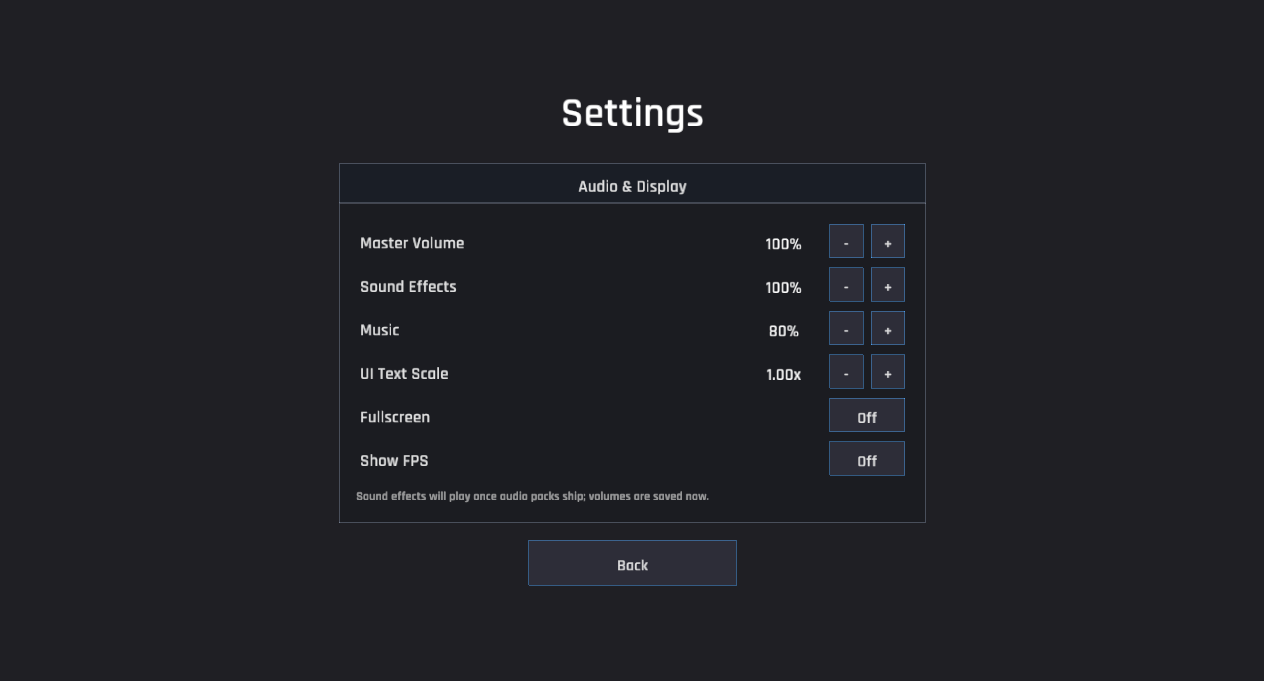
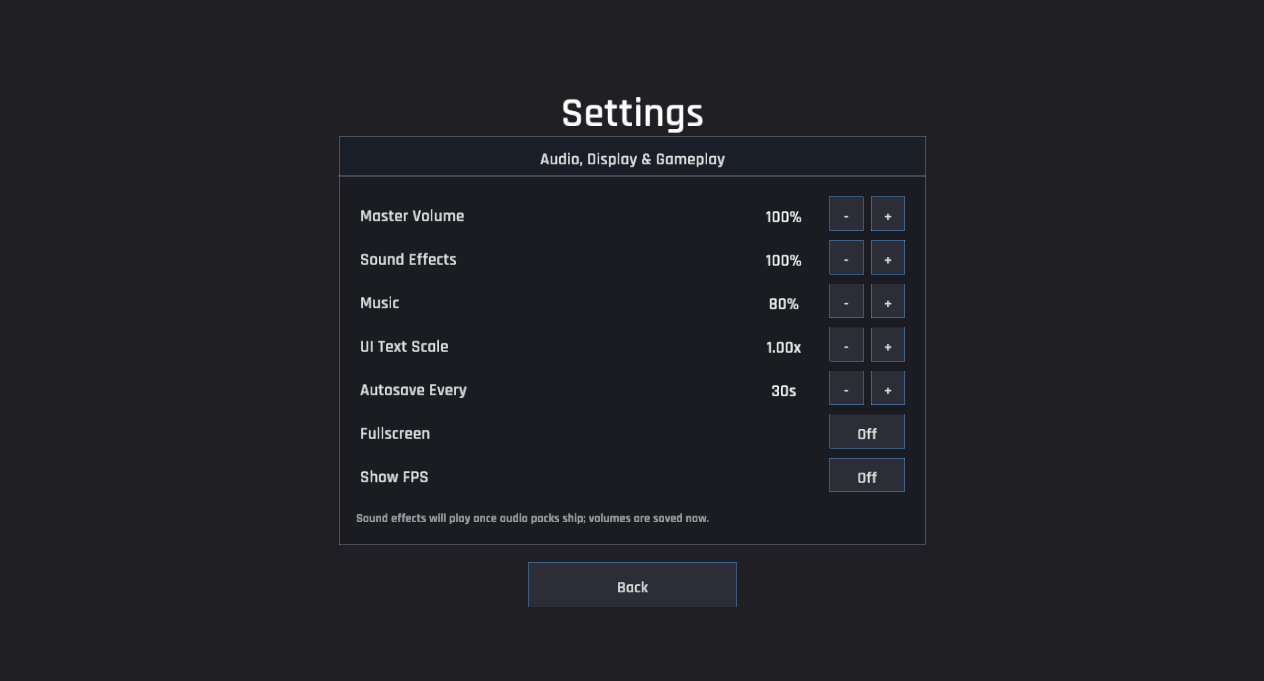
Autosave interval as a user setting (toolkit-first)
Read the autosave cadence from the shared GameSettings::autosave_interval
(added in the toolkit) instead of a game config field. Remove
config.autosave_interval from GameConfig + game_config.json;
GameplayState::autosave_due now takes the interval as a param, fed from
self.settings in the game loop. The Settings screen gains an
"Autosave Every Ns" stepper (+/-5s), applied/sanitized/persisted through
the existing ChangeSetting path. Verified in ui_settings.

Depends on macroquad-toolkit 8f80880 (GameSettings.autosave_interval).

diff --git a/src/ui/settings.rs b/src/ui/settings.rs
@@ -1,6 +1,7 @@
-//! Global settings sub-screen (GDD §9): audio volumes plus display flags,
-//! backed by the toolkit `GameSettings`. Pure view — every control returns a
-//! `ChangeSetting` intent; `game.rs` mutates, applies, and persists.
+//! Global settings sub-screen (GDD §9): audio volumes, display flags, and the
+//! autosave interval, all backed by the toolkit `GameSettings`. Pure view —
+//! every control returns a `ChangeSetting` intent; `game.rs` mutates, applies,
+//! and persists.
 
 use crate::ui::{self, SettingChange, UiAction, VolumeChannel, LOGICAL_HEIGHT, LOGICAL_WIDTH};
 use macroquad::prelude::*;
@@ -24,11 +25,11 @@ pub fn draw(settings: &GameSettings, mouse: Vec2) -> Vec<UiAction> {
     let panel_w = 620.0;
     let panel = Rect::new(
         (LOGICAL_WIDTH - panel_w) / 2.0,
-        LOGICAL_HEIGHT * 0.24,
+        LOGICAL_HEIGHT * 0.2,
         panel_w,
-        380.0,
+        432.0,
     );
-    let content = ui::panel(panel, "Audio & Display");
+    let content = ui::panel(panel, "Audio, Display & Gameplay");
 
     let mut y = content.y + 8.0;
     let row_h = 46.0;
@@ -66,6 +67,9 @@ pub fn draw(settings: &GameSettings, mouse: Vec2) -> Vec<UiAction> {
 
     // UI scale reuses the stepper visuals but its own intents.
     scale_row(content, y, settings.ui_text_scale, mouse, &mut actions);
+    y += row_h;
+
+    autosave_row(content, y, settings.autosave_interval, mouse, &mut actions);
     y += row_h;
 
     toggle_row(
@@ -177,6 +181,22 @@ fn scale_row(content: Rect, y: f32, scale: f32, mouse: Vec2, actions: &mut Vec<U
     }
     if plus {
         actions.push(UiAction::ChangeSetting(SettingChange::UiScaleUp));
+    }
+}
+
+fn autosave_row(content: Rect, y: f32, interval: f32, mouse: Vec2, actions: &mut Vec<UiAction>) {
+    label_and_value(
+        content,
+        y,
+        "Autosave Every",
+        &format!("{}s", interval.round() as i32),
+    );
+    let (minus, plus) = minus_plus(content, y, mouse);
+    if minus {
+        actions.push(UiAction::ChangeSetting(SettingChange::AutosaveDown));
+    }
+    if plus {
+        actions.push(UiAction::ChangeSetting(SettingChange::AutosaveUp));
     }
 }
 

diff --git a/src/game.rs b/src/game.rs
@@ -20,6 +20,8 @@ use macroquad_toolkit::settings::GameSettings;
 const VOLUME_STEP: f32 = 0.1;
 /// Step applied per UI-scale +/- press.
 const UI_SCALE_STEP: f32 = 0.1;
+/// Step (seconds) applied per autosave-interval +/- press.
+const AUTOSAVE_STEP: f32 = 5.0;
 
 /// Warm gold used for "+N" click gains.
 const CLICK_GAIN_COLOR: Color = Color::new(0.98, 0.80, 0.35, 1.0);
@@ -110,7 +112,7 @@ impl Game {
                 }
             }
 
-            if gameplay.autosave_due(&self.data, dt) {
+            if gameplay.autosave_due(self.settings.autosave_interval, dt) {
                 self.write_save(false);
             }
             if is_key_pressed(KeyCode::Escape) {
@@ -211,6 +213,8 @@ impl Game {
             SettingChange::VolumeDown(channel) => *self.volume_mut(channel) -= VOLUME_STEP,
             SettingChange::UiScaleUp => self.settings.ui_text_scale += UI_SCALE_STEP,
             SettingChange::UiScaleDown => self.settings.ui_text_scale -= UI_SCALE_STEP,
+            SettingChange::AutosaveUp => self.settings.autosave_interval += AUTOSAVE_STEP,
+            SettingChange::AutosaveDown => self.settings.autosave_interval -= AUTOSAVE_STEP,
             SettingChange::ToggleFullscreen => self.settings.fullscreen = !self.settings.fullscreen,
             SettingChange::ToggleShowFps => self.settings.show_fps = !self.settings.show_fps,
         }

diff --git a/src/state/gameplay.rs b/src/state/gameplay.rs
@@ -298,10 +298,11 @@ impl GameplayState {
         self.earn(self.gold_per_second(data) * f64::from(dt));
     }
 
-    /// Counts up the autosave interval; true means "save now".
-    pub fn autosave_due(&mut self, data: &GameData, dt: f32) -> bool {
+    /// Counts up toward the player's autosave interval (seconds, from settings);
+    /// true means "save now".
+    pub fn autosave_due(&mut self, interval_secs: f32, dt: f32) -> bool {
         self.autosave_accum += dt;
-        if self.autosave_accum >= data.config.autosave_interval {
+        if self.autosave_accum >= interval_secs {
             self.autosave_accum = 0.0;
             true
         } else {

diff --git a/src/data.rs b/src/data.rs
@@ -29,7 +29,6 @@ pub struct GameConfig {
     pub display_name: String,
     pub save_slot: String,
     pub version: String,
-    pub autosave_interval: f32,
     pub base_click: f64,
     pub base_passive: f64,
     pub gold_per_goblin: f64,

diff --git a/src/ui.rs b/src/ui.rs
@@ -64,6 +64,8 @@ pub enum SettingChange {
     VolumeDown(VolumeChannel),
     UiScaleUp,
     UiScaleDown,
+    AutosaveUp,
+    AutosaveDown,
     ToggleFullscreen,
     ToggleShowFps,
 }

diff --git a/IMPLEMENTATION_PLAN.md b/IMPLEMENTATION_PLAN.md
@@ -18,7 +18,7 @@ screenshots in `docs/verification/`: `ui_menu`, `ui_hoard`, `ui_settings`,
 
 | File | Contents | Status |
 | --- | --- | --- |
-| `assets/data/game_config.json` | Base rates, cost growths, prestige gate/divisor, autosave interval | Prototype values per GDD §5.1 |
+| `assets/data/game_config.json` | Base rates, cost growths, prestige gate/divisor/growth, offline cap | Prototype values per GDD §5.1 |
 | `assets/data/upgrades.json` | 6 upgrade lines (click, minion eff, discovery, hoard greed, passive mult, hire discount) | Done (M3) |
 | `assets/data/prestige_upgrades.json` | 9 permanent-tree nodes across all 5 effect stats | Done (M3) |
 | `assets/data/treasures.json` | 16 treasures, rarity-weighted, all with real effects | Done (M3) |
@@ -121,15 +121,21 @@ boots a fresh gameplay session (seed 42) on the Hoard screen.
   as much as gold allows. Buttons show the resolved count and total cost.
 - [x] **Settings screen** (GDD §9) — reached from the main menu (`MenuScreen`
   sub-view). Edits the toolkit `GameSettings`: master/SFX/music volumes (+/-
-  steppers), UI text scale, Fullscreen and Show-FPS toggles. Every control
+  steppers), UI text scale, autosave interval, Fullscreen and Show-FPS toggles.
+  Every control
   returns a `ChangeSetting` intent; `game.rs` mutates, `sanitize()`s,
   `apply_display()`s, and persists under `config.game_name` on each change.
   Loaded + applied at startup. Show-FPS overlay is live. New capture scene
   `settings`; verified in `docs/verification/ui_settings.png`.
-  - [ ] **Autosave interval as a setting**: deferred — `GameSettings` has no
-    such field and forking the shared toolkit is out of scope for this loop.
-    Interval still comes from `game_config.json`. Add a toolkit field (or a
-    game-local settings key) when ready.
+  - [x] **Autosave interval as a setting** — done the toolkit-first way (per the
+    RustGames "reach for the toolkit" directive): added `autosave_interval` to
+    the shared `macroquad_toolkit::settings::GameSettings` (default 30s, clamped
+    `[5, 600]` in `sanitize`, additive/backward-compatible via the struct's
+    `#[serde(default)]`; toolkit test added). Dragon's Den now reads the cadence
+    from settings — `game_config.json`'s `autosave_interval` was removed and
+    `GameplayState::autosave_due(interval, dt)` takes it as a param — and the
+    Settings screen has an "Autosave Every Ns" stepper (±5s). Verified in
+    `ui_settings`.
   - [ ] **Audio SFX** (click/purchase/unlock blips) via toolkit `audio`:
     deferred — no sound assets exist yet. Volumes persist and are ready to feed
     a `SoundManager` once packs ship.
@@ -206,11 +212,13 @@ action (deploy), so the autonomous loop leaves them for you.*
 
 ### Blocked / needs external input (not autonomously actionable)
 
-- **Autosave interval as a setting** — needs a shared-toolkit `GameSettings`
-  field (or a game-local settings key); modifying the shared toolkit was kept
-  out of scope for this loop.
 - **Audio SFX** — no sound-asset pack exists yet; the Settings volumes already
   persist and are ready to feed a `SoundManager` once packs ship.
+
+> Note: this loop modified the shared `macroquad-toolkit` (added
+> `GameSettings::autosave_interval`). That change is additive and
+> backward-compatible (all workspace consumers build `GameSettings` via
+> `..Default::default()`), and is committed in the toolkit's own git repo.
 
 ---
 
